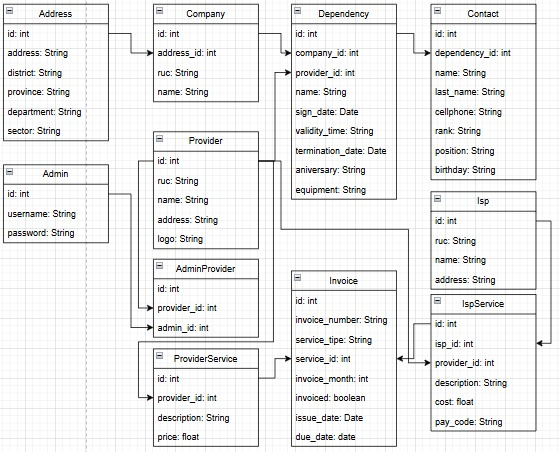
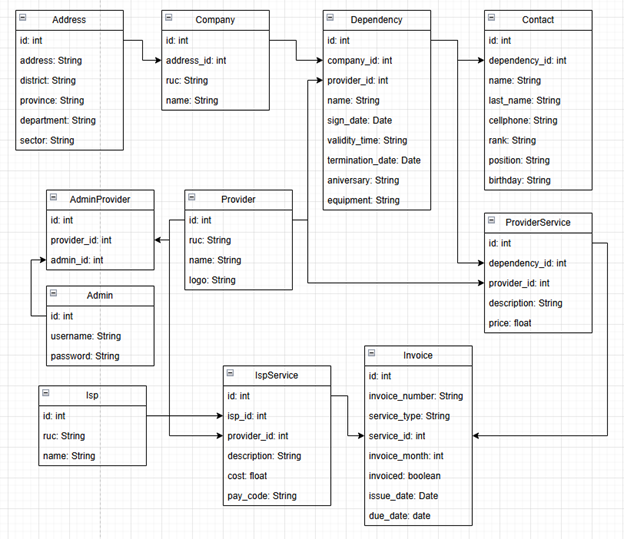
cambios finales para avance del front final

Changed region(s): [[0.0, 0.0, 1.0, 0.9912]]

diff --git a/frontend/lib/services/dependency_service.dart b/frontend/lib/services/dependency_service.dart
@@ -6,31 +6,54 @@ import '../models/entities/provider.dart';
 import '../models/entities/company.dart';
 
 class DependencyService {
-  Future<ServiceHttpResponse?> fetchByProviderAndCompany(
-      Provider provider, Company company) async {
-    List<Dependency> dependencies = [];
-    ServiceHttpResponse serviceResponse = ServiceHttpResponse();
+  List<Dependency> dependencies = [];
 
-    final String body =
-        await rootBundle.loadString('assets/jsons/dependency.json');
+  // Carga las dependencias desde el archivo JSON solo si no se ha hecho antes
+  Future<void> _loadData() async {
+    if (dependencies.isNotEmpty) return; // Si ya están cargadas, no cargar de nuevo
+
+    final String body = await rootBundle.loadString('assets/jsons/dependency.json');
     final List<dynamic> data = jsonDecode(body);
 
-    dependencies = data
-        .map((map) => Dependency.fromJson(map as Map<String, dynamic>))
-        .where((dependency) =>
-            dependency.providerId == provider.id &&
-            dependency.companyId == company.id)
-        .toList();
+    dependencies = data.map((map) => Dependency.fromJson(map as Map<String, dynamic>)).toList();
+  }
 
-    if (dependencies.isEmpty) {
+  // Devuelve las dependencias asociadas a un proveedor y una compañía
+  Future<ServiceHttpResponse?> fetchByProviderAndCompany(
+      Provider provider, Company company) async {
+    ServiceHttpResponse serviceResponse = ServiceHttpResponse();
+
+    // Cargar datos si aún no se han cargado
+    await _loadData();
+
+    // Filtrar dependencias por proveedor y compañía
+    List<Dependency> filteredDependencies = dependencies.where((dependency) =>
+        dependency.providerId == provider.id && dependency.companyId == company.id).toList();
+
+    if (filteredDependencies.isEmpty) {
       serviceResponse.status = 404;
-      serviceResponse.body =
-          'No se encontraron dependencias para el proveedor y la compañía especificados.';
+      serviceResponse.body = 'No se encontraron dependencias para el proveedor y la compañía especificados.';
     } else {
       serviceResponse.status = 200;
-      serviceResponse.body = dependencies;
+      serviceResponse.body = filteredDependencies;
     }
 
     return serviceResponse;
+  }
+
+  // Devuelve una dependencia específica por su id
+  Future<ServiceHttpResponse?> getDependencyById(int id) async {
+    ServiceHttpResponse serviceResponse = ServiceHttpResponse();
+    await _loadData(); // Asegúrate de que los datos estén cargados
+
+    try {
+      serviceResponse.status = 200;
+      serviceResponse.body = dependencies.firstWhere((dependency) => dependency.id == id);
+      return serviceResponse;
+    } catch (e) {
+      serviceResponse.status = 404;
+      serviceResponse.body = null;
+      return serviceResponse;
+    }
   }
 }

diff --git a/frontend/lib/services/isp_service.dart b/frontend/lib/services/isp_service.dart
@@ -5,14 +5,13 @@ import '../models/entities/isp.dart';
 
 class IspService {
   List<Isp> services = [];
-  Future<void> fetchAll() async{
-    
+  Future<void> fetchAll() async {
     final String lectura = await rootBundle.loadString('assets/jsons/isp.json');
     final List<dynamic> data = jsonDecode(lectura);
-    services = data.map((element) => Isp.fromJson(element as Map<String, dynamic>)).toList();
-
+    services = data
+        .map((element) => Isp.fromJson(element as Map<String, dynamic>))
+        .toList();
   }
-
 
   Future<ServiceHttpResponse?> getIspById(int id) async {
     ServiceHttpResponse serviceResponse = ServiceHttpResponse();
@@ -24,21 +23,19 @@ class IspService {
       serviceResponse.body = services.firstWhere((service) => service.id == id);
       return serviceResponse;
     } catch (e) {
-      serviceResponse.status = 400;
+      serviceResponse.status = 404;
       serviceResponse.body = null;
       return serviceResponse;
     }
   }
+
+  Future<ServiceHttpResponse?> fetchAllNames() async {
+    ServiceHttpResponse serviceResponse = ServiceHttpResponse();
+    final String lectura = await rootBundle.loadString('assets/jsons/isp.json');
+    final List<dynamic> data = jsonDecode(lectura);
+    List<Isp> names = data.map((e) => Isp.fromJson(e)).toList();
+    serviceResponse.status = 200;
+    serviceResponse.body = names.map((isp) => isp.name).toList();
+    return serviceResponse;
+  }
 }
-
-
-Future<ServiceHttpResponse?> fetchAllNames() async {
-  ServiceHttpResponse serviceResponse = ServiceHttpResponse();
-  final String lectura = await rootBundle.loadString('assets/jsons/isp.json');
-  final List<dynamic> data = jsonDecode(lectura);
-  List<Isp> names = data.map((e) => Isp.fromJson(e)).toList();
-  serviceResponse.status = 200;
-  serviceResponse.body = names.map((isp) => isp.name).toList();
-  return serviceResponse;
-}
-

diff --git a/frontend/lib/services/company_service.dart b/frontend/lib/services/company_service.dart
@@ -4,17 +4,35 @@ import 'package:flutter/services.dart';
 import '../models/service_http_response.dart';
 import '../models/entities/company.dart';
 
-class CompanyService  {
+class CompanyService {
+  List<Company> companies = [];
   Future<ServiceHttpResponse?> fetchAll() async {
-    List<Company> companies = [];
     ServiceHttpResponse serviceResponse = ServiceHttpResponse();
     final String body =
         await rootBundle.loadString('assets/jsons/company.json');
     final List<dynamic> data = jsonDecode(body);
-    companies =
-        data.map((map) => Company.fromJson(map as Map<String, dynamic>)).toList();
+    companies = data
+        .map((map) => Company.fromJson(map as Map<String, dynamic>))
+        .toList();
     serviceResponse.status = 200;
     serviceResponse.body = companies;
     return serviceResponse;
+  }
+
+  Future<ServiceHttpResponse?> getCompanyRucById(int id) async {
+    ServiceHttpResponse serviceResponse = ServiceHttpResponse();
+    if (companies.isEmpty) {
+      await fetchAll(); // Asegúrate de que los datos estén cargados
+    }
+    try {
+      serviceResponse.status = 200;
+      serviceResponse.body =
+          companies.firstWhere((company) => company.id == id).ruc;
+      return serviceResponse;
+    } catch (e) {
+      serviceResponse.status = 404;
+      serviceResponse.body = null;
+      return serviceResponse;
+    }
   }
 }

diff --git a/frontend/lib/models/entities/provider_service.dart b/frontend/lib/models/entities/provider_service.dart
@@ -1,11 +1,13 @@
 class ProviderService {
   int? id;
+  int dependencyId;
   int providerId;
   String description;
   double price;
 
   ProviderService({
     this.id,
+    required this.dependencyId,
     required this.providerId,
     required this.description,
     required this.price,
@@ -15,6 +17,7 @@ class ProviderService {
   factory ProviderService.fromJson(Map<String, dynamic> json) {
     return ProviderService(
       id: json['id'],
+      dependencyId: json['dependency_id'],
       providerId: json['provider_id'],
       description: json['description'],
       price: (json['price'] as num).toDouble(), // asegura double
@@ -25,6 +28,7 @@ class ProviderService {
   Map<String, dynamic> toMap() {
     return {
       'id': id,
+      'dependency_id': dependencyId,
       'provider_id': providerId,
       'description': description,
       'price': price,
@@ -33,6 +37,6 @@ class ProviderService {
 
   @override
   String toString() {
-    return 'ProviderService(id: $id, providerId: $providerId, description: $description, price: $price)';
+    return 'ProviderService(id: $id, dependencyId: $dependencyId, providerId: $providerId, description: $description, price: $price)';
   }
 }

diff --git a/frontend/lib/models/entities/provider.dart b/frontend/lib/models/entities/provider.dart
@@ -2,14 +2,12 @@ class Provider {
   int? id;
   String ruc;
   String name;
-  String address;
   String logo;
 
   Provider({
     this.id,
     required this.ruc,
     required this.name,
-    required this.address,
     required this.logo,
   });
 
@@ -19,7 +17,6 @@ class Provider {
       id: json['id'],
       ruc: json['ruc'],
       name: json['name'],
-      address: json['address'],
       logo: json['logo'],
     );
   }
@@ -30,13 +27,12 @@ class Provider {
       'id': id,
       'ruc': ruc,
       'name': name,
-      'address': address,
       'logo': logo,
     };
   }
 
   @override
   String toString() {
-    return 'Provider(id: $id, ruc: $ruc, name: $name, address: $address, logo: $logo)';
+    return 'Provider(id: $id, ruc: $ruc, name: $name, logo: $logo)';
   }
 }

diff --git a/frontend/lib/models/entities/isp.dart b/frontend/lib/models/entities/isp.dart
@@ -2,14 +2,12 @@ class Isp {
   final int? id;
   final String ruc;
   final String name;
-  final String address;
 
 
   Isp({
     this.id,
     required this.ruc,
     required this.name,
-    required this.address,
   });
 
 
@@ -18,7 +16,6 @@ class Isp {
       id: json['id'],
       ruc: json['ruc'],
       name: json['name'],
-      address: json['address'],
     );
   }
 
@@ -28,13 +25,12 @@ class Isp {
       'id': id,
       'ruc': ruc,
       'name': name,
-      'address': address,
     };
   }
 
   @override
   String toString() {
-    return 'Isp(id: $id, ruc: $ruc, name: $name, address: $address)';
+    return 'Isp(id: $id, ruc: $ruc, name: $name)';
   }
 }
 
